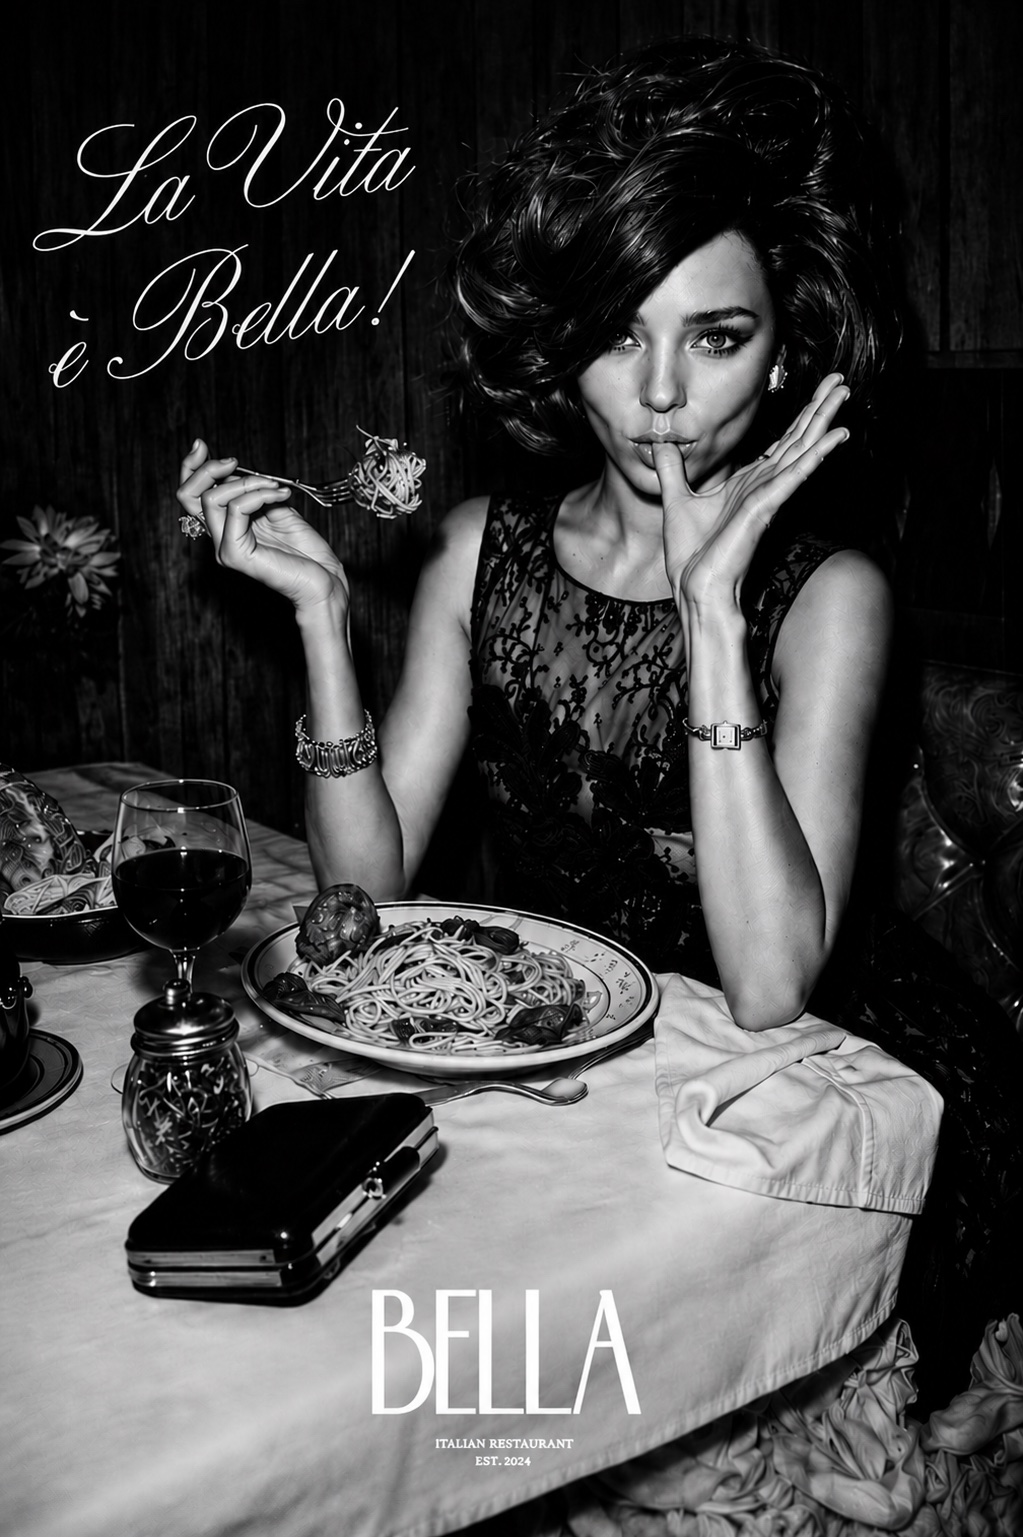
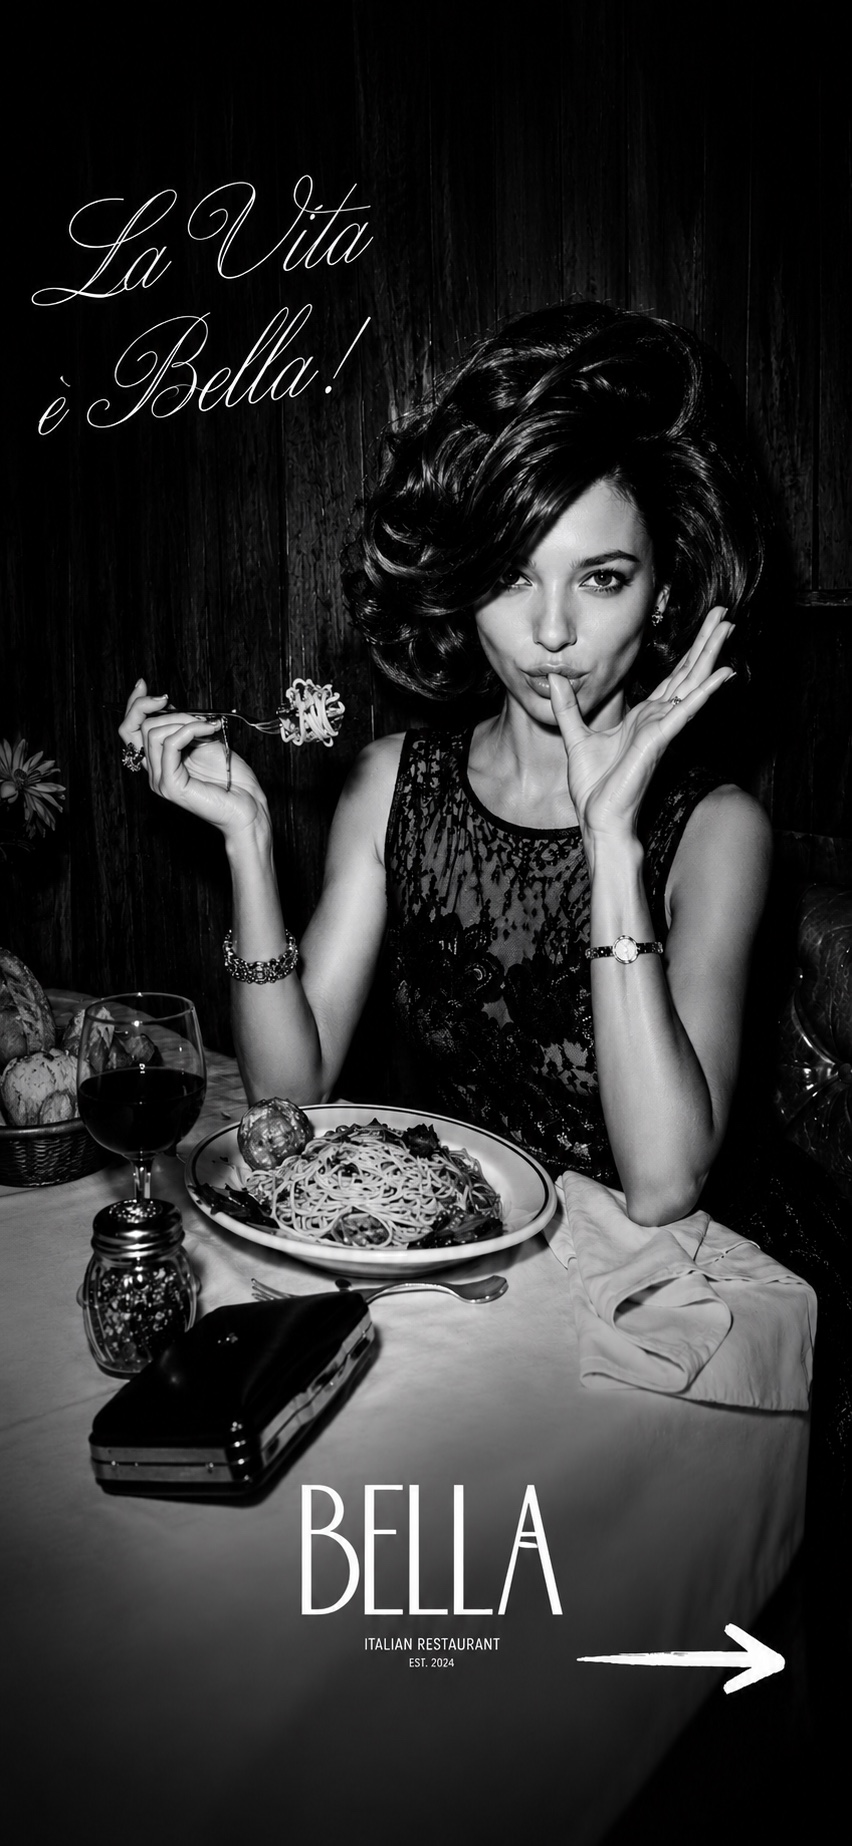
Bella slider: new B&W cover, remove 6 photos
- Replace cover with the full B&W "La Vita è Bella" poster.
- Remove from the slider: terrace candid (dnp-23), the colour poster
  (both copies: bella-7 + dnp-22), facade-with-people (dnp-21), green
  pan dish (dnp-18), truffle pasta (dnp-20), cocktail (dnp-19).
  32 → 25 slides.

diff --git a/src/app/clients/proposal/ClientLanding.jsx b/src/app/clients/proposal/ClientLanding.jsx
@@ -317,7 +317,6 @@ function StudioGallery({ slides, bare = false, className = '' }) {
 const BELLA_SLIDES = [
   '/projects/bella-cover.jpg',
   '/projects/bella-4.jpg',
-  '/projects/bella-7.jpg',
   '/projects/bella-8.jpg',
   '/projects/bella-1.jpg',
   '/projects/bella-3.jpg',
@@ -340,12 +339,6 @@ const BELLA_SLIDES = [
   '/projects/bella-restaurant-dnipro-14.webp',
   '/projects/bella-restaurant-dnipro-15.webp',
   '/projects/bella-restaurant-dnipro-17.webp',
-  '/projects/bella-restaurant-dnipro-18.webp',
-  '/projects/bella-restaurant-dnipro-19.webp',
-  '/projects/bella-restaurant-dnipro-20.webp',
-  '/projects/bella-restaurant-dnipro-21.webp',
-  '/projects/bella-restaurant-dnipro-22.webp',
-  '/projects/bella-restaurant-dnipro-23.webp',
   '/projects/bella-restaurant-dnipro-24.webp',
 ]
 